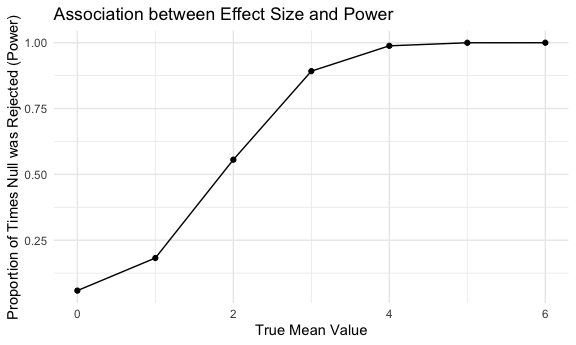
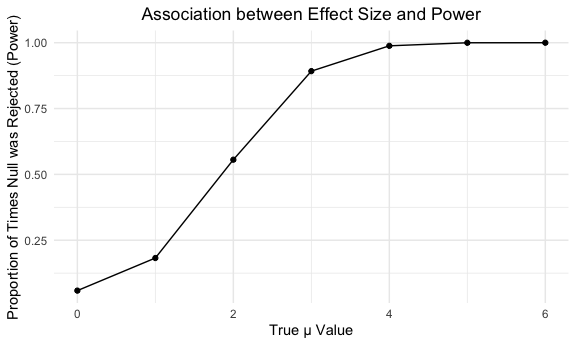
Fixed titles for all graphs and aesthetics

Changed region(s): [[0.0938, 0.0, 0.8438, 0.058], [0.4375, 0.9275, 0.6562, 0.9855]]

diff --git a/p8105_hw5_hlz2108.md b/p8105_hw5_hlz2108.md
@@ -186,7 +186,7 @@ data_files =
     values_to = "observation"
   ) %>% 
   mutate(
-    arm = recode(arm, "con" = "control", "exp" = "experimental")) 
+    arm = recode(arm, "con" = "Control", "exp" = "Experimental")) 
 ```
 
     ## Parsed with column specification:
@@ -417,16 +417,16 @@ data_files
     ## # A tibble: 160 x 4
     ##    arm     subject_id week  observation
     ##    <chr>   <chr>      <chr>       <dbl>
-    ##  1 control 01         1            0.2 
-    ##  2 control 01         2           -1.31
-    ##  3 control 01         3            0.66
-    ##  4 control 01         4            1.96
-    ##  5 control 01         5            0.23
-    ##  6 control 01         6            1.09
-    ##  7 control 01         7            0.05
-    ##  8 control 01         8            1.94
-    ##  9 control 02         1            1.13
-    ## 10 control 02         2           -0.88
+    ##  1 Control 01         1            0.2 
+    ##  2 Control 01         2           -1.31
+    ##  3 Control 01         3            0.66
+    ##  4 Control 01         4            1.96
+    ##  5 Control 01         5            0.23
+    ##  6 Control 01         6            1.09
+    ##  7 Control 01         7            0.05
+    ##  8 Control 01         8            1.94
+    ##  9 Control 02         1            1.13
+    ## 10 Control 02         2           -0.88
     ## # … with 150 more rows
 
 Making the spaghetti\_plot\!
@@ -434,14 +434,16 @@ Making the spaghetti\_plot\!
 ``` r
 plot_data = data_files %>% 
   ggplot(aes(x = week, y = observation, group = subject_id, color = subject_id)) + 
+  geom_point(alpha = 0.5) +
   geom_line() +
   facet_grid( ~ arm) +
   labs(
     title = "Observations over Time by Subject",
     x = "Week",
     y = "Observation"
-  )
-
+  ) + 
+  theme(plot.title = element_text(hjust = 0.5))
+  
 plot_data
 ```
 
@@ -535,9 +537,10 @@ power_plot = results_df %>%
   geom_line() +
   labs(
     title = "Association between Effect Size and Power",
-    x = "True Mean Value",
+    x = "True μ Value",
     y = "Proportion of Times Null was Rejected (Power)"
-  )
+  ) + 
+  theme(plot.title = element_text(hjust = 0.5))
 ```
 
     ## `summarise()` ungrouping output (override with `.groups` argument)
@@ -593,8 +596,7 @@ rejects_p =
     x = "True μ Value",
     y = "Average Estimate of μ"
   ) + 
-  theme(
-    plot.title = element_text(hjust = 0.5))
+  theme(plot.title = element_text(hjust = 0.5))
 ```
 
     ## `summarise()` ungrouping output (override with `.groups` argument)
